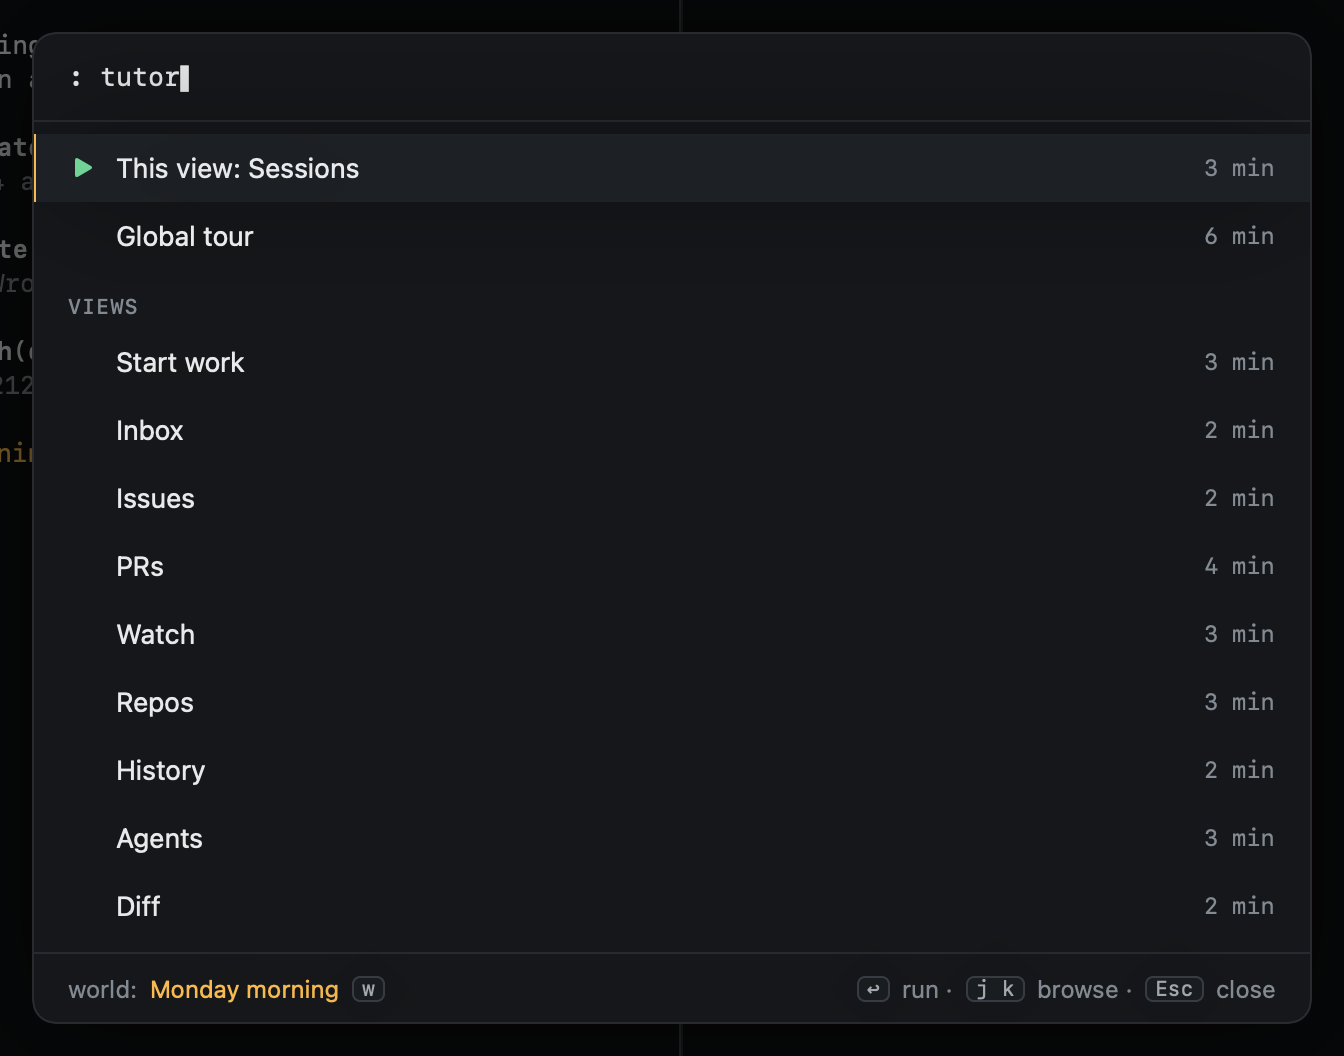
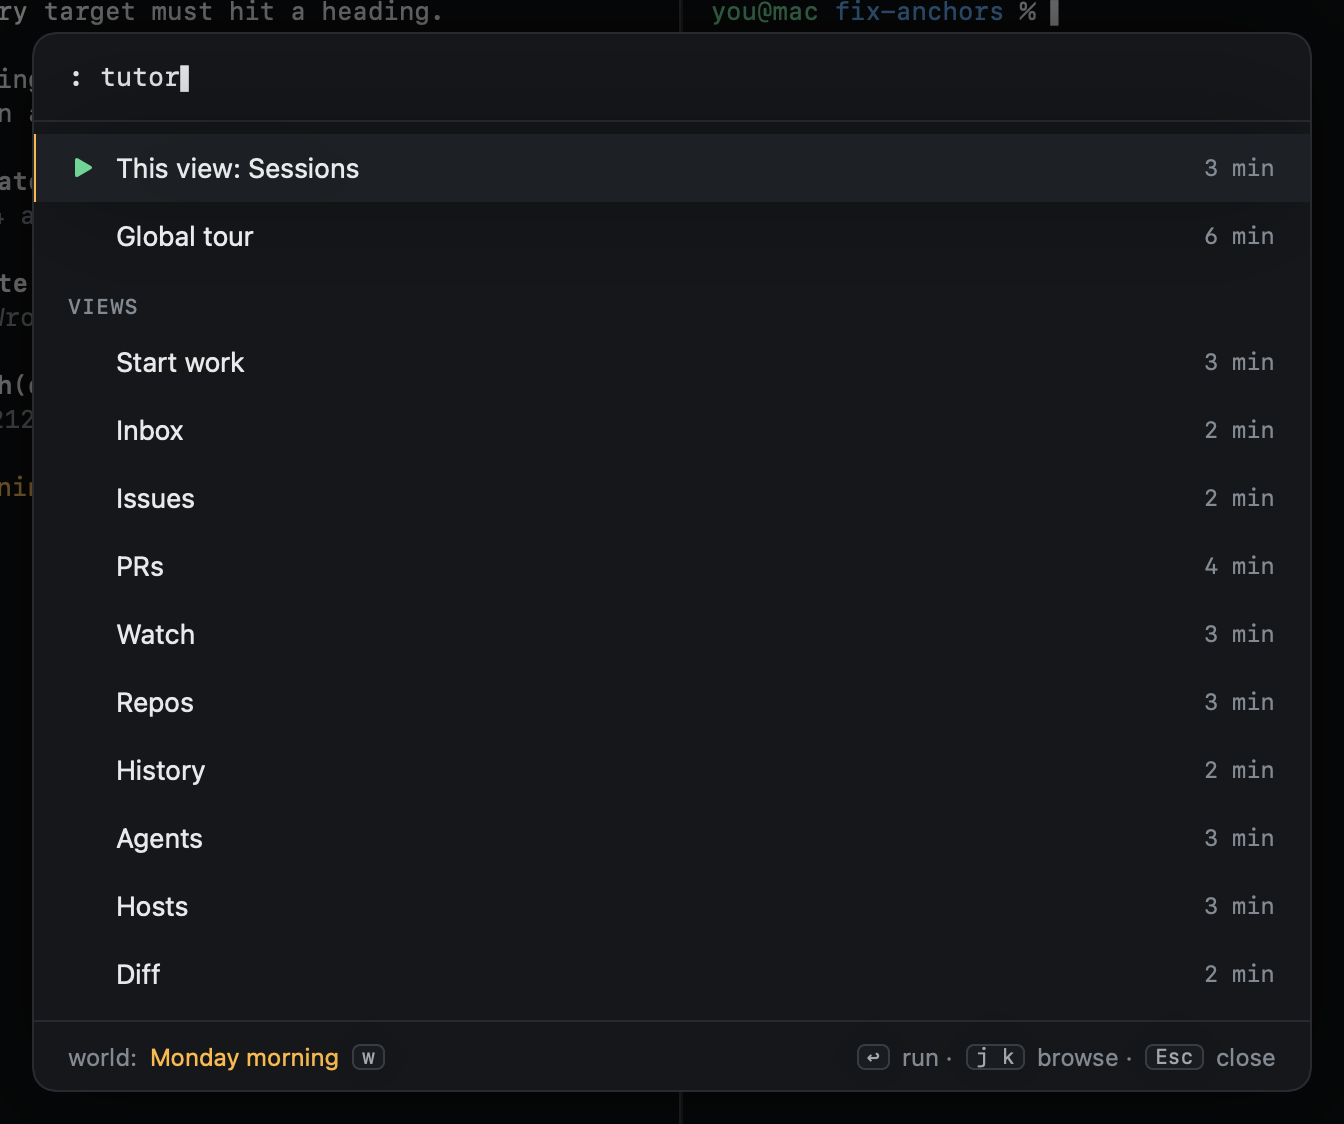
Hosts in the tutor and on the landing page (#35)
Phase 5 of remote sessions.

- **Tutor:** a Hosts lesson (Monday morning world): `gH` and ⎋, `@dev`
↩, Start work picking `docs-builder @devbox` with ⌃n, ⌘↩. A new
`TutorState.hostsOpen` and `hostSessions` back the checks, and a
tutor-check script plays it (0 problems locally). The tutor's simulated
start puts the worktree and session on the plan's host.
- **Landing:** a Hosts section after Resume, with a new `landing/hosts`
shot.
- **Docs:** the tutor page lists the lesson; `docs/hosts` points at it.
The tutor picker shot is refreshed.

🤖 Generated with [Claude Code](https://claude.com/claude-code)

diff --git a/docs/heed-landing.html b/docs/heed-landing.html
@@ -261,6 +261,7 @@ a:focus-visible,summary:focus-visible,.btn:focus-visible{outline:2px solid var(-
  <section class="feat" id="green"><div class="ft"><div class="eb mono">Get it green</div><h2>Red PRs come back green.</h2><p>heed watches the PRs your sessions open: review threads, failing checks, merge conflicts. Each becomes an item for the agent that wrote the code, sent once that agent is idle, with the failed CI log saved where it can read the actual error. <kbd>gw</kbd> opens the Watch view: every PR by what it needs, and everything heed did about it.</p><ul><li>A green checklist per PR: open, ready, no conflicts, required checks passed, threads resolved, no changes requested. heed names the rule that holds it back.</li><li>Optionally hand merge conflicts and review comments to GitHub’s Copilot coding agent and spare your agent’s tokens.</li><li>Pause a PR, or a whole selection, for an hour. After three rounds without a new approval heed stops and tells you.</li></ul></div><div class="fm"><figure class="win "><div class="wb"><i style="background:#ff5f57"></i><i style="background:#febc2e"></i><i style="background:#28c840"></i><span>heed</span></div><img src="images/shots/landing/green.png" alt="The Watch view: PRs grouped by what they need, a PR’s green checklist, and the pilot’s activity." loading="lazy"></figure></div></section><section class="feat rev" id="merged"><div class="ft"><div class="eb mono">Get it merged</div><h2>Green PRs land.</h2><p>Turn merging on per PR with <kbd>M</kbd>, or for a whole repo or org. Each repo gets a merge queue that runs every hour, and whenever one of its PRs turns green. Use GitHub’s auto-merge where its rules are enough, or let heed merge once every rule you set holds.</p><ul><li>heed’s rules: green, reviewed after the last push (by a person, or an AI reviewer you trust), quiet for five minutes, your gate checks passed, no hold label.</li><li>An optional self-review: a command you choose, such as <span class="mono">claude -p</span>, reads the diff and has to answer APPROVE.</li><li>It merges only the commit it checked, brings PRs that fell behind up to date, and comments on the PR saying why it merged.</li></ul></div><div class="fm"><figure class="win "><div class="wb"><i style="background:#ff5f57"></i><i style="background:#febc2e"></i><i style="background:#28c840"></i><span>heed</span></div><img src="images/shots/landing/merged.png" alt="A PR in heed’s merge mode: each merge rule, the one holding it back, and the repo’s merge queue." loading="lazy"></figure></div></section>
  <section class="feat rev" id="f6"><div class="ft"><div class="eb mono">Worktrees</div><h2>Worktrees that tidy up after themselves.</h2><p>Create, list and remove worktrees across repos. Cleanup starts with one honest rule: remove what has been quiet for N days.</p><ul><li>Never touches dirty or unpushed work, and never pinned sessions.</li><li>Shows what the next sweep would do before it does it.</li><li>Org icon and color on every repo, so a long list scans fast.</li></ul></div><div class="fm"><figure class="win "><div class="wb"><i style="background:#ff5f57"></i><i style="background:#febc2e"></i><i style="background:#28c840"></i><span>heed</span></div><img src="images/shots/landing/worktrees.png" alt="Worktree table with state, repo chips, PRs and cleanup ETA." loading="lazy"></figure></div></section>
  <section class="feat" id="f7"><div class="ft"><div class="eb mono">Resume</div><h2>Pick up where you left off.</h2><p>Quit heed, restart the Mac, come back tomorrow. Active sessions reopen with their agent session id, in the same worktrees, tabs and splits. Claude, for example, comes back with <kbd>--resume</kbd>.</p><ul><li>If an agent has forgotten the session, you get a fresh start with the same prompt.</li><li>Sessions that were mid-turn get a “Continue where you left off.” nudge, yours to change.</li><li>Running processes are not restored, and heed says so.</li></ul></div><div class="fm"><figure class="win "><div class="wb"><i style="background:#ff5f57"></i><i style="background:#febc2e"></i><i style="background:#28c840"></i><span>heed</span></div><img src="images/shots/landing/resume.png" alt="Resume dialog listing sessions with the exact command for each." loading="lazy"></figure></div></section>
+<section class="feat rev" id="hosts"><div class="ft"><div class="eb mono">Hosts</div><h2>Agents on other machines, in the same window.</h2><p>Your devbox, a GPU box, a build machine: heed drives them over the ssh you already have. Press <kbd>o</kbd>, pick <span class="mono">docs-builder @devbox</span>, and the worktree, the agent and its hooks all live there, while you watch from here.</p><ul><li>Plain OpenSSH: your <span class="mono">~/.ssh/config</span>, your agent, jump hosts. Nothing to run on the host but a small shell script in <span class="mono">~/.heed</span>.</li><li>With <a href="https://zmx.sh">zmx</a> on the host, the agent keeps working when the link drops, and the pane comes back as it was. heed tells you how to install it, and marks sessions without it as not persistent.</li><li>A remote session shows where it runs: a chip, a rail and a strip in the host’s colour, and the link’s latency.</li></ul></div><div class="fm"><figure class="win "><div class="wb"><i style="background:#ff5f57"></i><i style="background:#febc2e"></i><i style="background:#28c840"></i><span>heed</span></div><img src="images/shots/landing/hosts.png" alt="A session on @devbox: the host chip in the sidebar, the pane strip with the link state, and the host in the status bar." loading="lazy"></figure></div></section>
 
  <div class="also">
   <div class="al"><figure class="win "><div class="wb"><i style="background:#ff5f57"></i><i style="background:#febc2e"></i><i style="background:#28c840"></i><span>heed</span></div><img src="images/shots/landing/diff.png" alt="Diff overlay over a session." loading="lazy"></figure><h3>Read the diff, stay put</h3><p><kbd>gd</kbd> opens committed, staged or unstaged changes over your session. Per file, per commit, or all of it. Ask the agent about a hunk with one key.</p></div>

diff --git a/Sources/HeedCore/Tutor/Lessons.swift b/Sources/HeedCore/Tutor/Lessons.swift
@@ -278,6 +278,32 @@ public extension Tutor {
                 doneLine: "{session.park} again brings it back. A session that needs you stays in sight even parked."
             ) { start, now, _ in now.parked > start.parked },
         ]),
+        TutorLesson(id: "hosts", title: "Hosts", minutes: 3, world: .mondayMorning, steps: [
+            TutorStep(
+                "Your hosts",
+                say: "{host.open} lists the machines heed drives over ssh, and what each has: git, zmx, agents. ⎋ closes it.",
+                keys: ["{host.open}", "⎋"], target: "dialog",
+                doneLine: "Hosts in your ~/.ssh/config are there to add. One without zmx shows the line that installs it."
+            ) { _, now, seen in seen.contains(where: \.hostsOpen) && !now.hostsOpen },
+            TutorStep(
+                "One host at a time",
+                say: "{host.filter} narrows the view to one host: type dev, and ↩ keeps the filter.",
+                keys: ["{host.filter}", "↩"], target: "statusBar",
+                doneLine: "Only what runs on @devbox. A remote session carries a rail and chip in its host's colour."
+            ) { _, now, _ in !now.filtering && now.filter.hasPrefix("@") },
+            TutorStep(
+                "Pick a host's repo",
+                say: "{work.start}, say what you want done, then ⌃n until the chip says @devbox.",
+                keys: ["{work.start}", "⌃n"], target: "dialog",
+                doneLine: "The line over the command says where it will run, and whether zmx keeps it alive."
+            ) { _, now, _ in now.startWorkOpen && now.startWorkRepo?.hasSuffix("@devbox") == true },
+            TutorStep(
+                "Start it there",
+                say: "⌘↩: the worktree and the agent are made on @devbox, not on this Mac.",
+                keys: ["⌘↩"], target: "dialog",
+                doneLine: "Its pane is ssh into a zmx session on the host: drop the link and the agent keeps going."
+            ) { start, now, _ in now.hostSessions > start.hostSessions },
+        ]),
         TutorLesson(id: "diff", title: "Diff", minutes: 2, world: .mondayMorning, steps: [
             TutorStep(
                 "Open the overlay",

diff --git a/Sources/HeedApp/Model/AppModel.swift b/Sources/HeedApp/Model/AppModel.swift
@@ -4163,8 +4163,10 @@ final class AppModel {
     private func simulateStart(_ plan: StartWorkPlan) {
         let made = plan.repos.map { record in
             Worktree(
-                repo: record.repo, path: settings.worktreePath(repo: record.repo, name: plan.name), branch: plan.name,
-                head: "0000000", isMain: false, status: WorktreeStatus(upstream: nil)
+                repo: record.repo,
+                path: StartWork.worktreePath(for: record, name: plan.name, settings: settings, hosts: config.hosts),
+                branch: plan.name, head: "0000000", isMain: false, status: WorktreeStatus(upstream: nil),
+                location: record.location
             )
         }
         var session = Session(
@@ -4172,6 +4174,7 @@ final class AppModel {
             branch: plan.name, agent: plan.agent?.name ?? "shell", state: ObservedState(.working),
             activity: "starting", lastActivity: Date()
         )
+        session.host = plan.location.hostName
         session.record("started · \(plan.agent?.name ?? "shell")")
         var changes: [DomainChange] = plan.repos.map { record in
             .worktreesListed(repo: record.repo, worktrees.filter { $0.repo == record.repo } + made.filter {
@@ -4452,6 +4455,8 @@ final class AppModel {
         state.startWorkRepo = startWork?.selectedRepos.first
         state.confirmationOpen = confirmation != nil
         state.importOpen = importPicker != nil || pathImport != nil
+        state.hostsOpen = hostsPicker != nil
+        state.hostSessions = sessions.count { $0.host != nil }
         state.commandLine = mode == .command
         state.sessions = sessions.count
         let pins = list.ordered.filter(\.pinned)

diff --git a/Tests/HeedCoreTests/TutorTests.swift b/Tests/HeedCoreTests/TutorTests.swift
@@ -33,7 +33,7 @@ struct TutorTests {
         #expect(Tutor.tour.steps.count == 9)
         #expect(Tutor.tour.steps.first?.title == "Two modes")
         #expect(Tutor.viewLessons.map(\.id) == [
-            "sessions", "start-work", "inbox", "issues", "prs", "watch", "repos", "history", "agents", "diff",
+            "sessions", "start-work", "inbox", "issues", "prs", "watch", "repos", "history", "agents", "hosts", "diff",
         ])
         for lesson in Tutor.viewLessons {
             #expect((2 ... 4).contains(lesson.minutes), "\(lesson.id)")

diff --git a/Sources/HeedApp/Shots/Shots.swift b/Sources/HeedApp/Shots/Shots.swift
@@ -108,6 +108,7 @@ enum Shots {
         Shot(id: "landing/merged", chrome: false, keys: "gw/anchors<CR>"),
         Shot(id: "landing/worktrees", chrome: false, keys: "gr4jvj"),
         Shot(id: "landing/resume", chrome: false, prepare: { $0.showResumeForFixture() }),
+        Shot(id: "landing/hosts", chrome: false, keys: "G"),
         Shot(id: "landing/diff", chrome: false, keys: "gd"),
         Shot(id: "landing/inbox", chrome: false, keys: "gm<Space>j<Space>"),
     ]

diff --git a/Sources/HeedApp/Shots/TutorCheck.swift b/Sources/HeedApp/Shots/TutorCheck.swift
@@ -22,6 +22,12 @@ enum TutorCheck {
         "watch": ["gw", "j", "zp", "vjzp", "zm", "gM"],
         "repos": ["G", "o<Esc><Esc>", "ddn"],
         "history": ["j", "t", "R"],
+        "hosts": [
+            "gH<Esc>",
+            "@dev<CR>",
+            "o" + Shots.typed("Fix the flaky link checker in docs-builder") + "<C-n>",
+            "<D-CR>",
+        ],
         "agents": ["ga", "i<S-Esc>", "jjzz"],
         "diff": ["gd", "n", "a"],
     ]

diff --git a/Sources/HeedCore/Tutor/Tutor.swift b/Sources/HeedCore/Tutor/Tutor.swift
@@ -22,6 +22,10 @@ public struct TutorState: Equatable, Sendable {
     public var startWorkRepo: String?
     public var confirmationOpen = false
     public var importOpen = false
+    /// The hosts dialog (`gH`) is open.
+    public var hostsOpen = false
+    /// Sessions that run on a host.
+    public var hostSessions = 0
     public var commandLine = false
     public var helpOpen = false
     public var sessions = 0

diff --git a/docs/getting-started/tutor.md b/docs/getting-started/tutor.md
@@ -15,14 +15,14 @@ underneath (the Dock and the menu bar stay live). They come back exactly as they
 - **The global tour**: nine steps, about six minutes. Two modes, moving around, pins, the session that needs you,
   Start work, panes, views, the command line, and the keys sheet. The first-run screen offers it (`t`, show me around).
 - **View lessons**: one per view, two to four minutes each: Sessions, Start work, Inbox, Issues, PRs, Watch, Repos, History,
-  Agents and Diff. Each opens in its view.
+  Agents, Hosts and Diff. Each opens in its view.
 
 ## Starting it
 
 | From | |
 |---|---|
 | `:tutor` | The picker: the lesson for the view you are on first, then the tour and every other lesson |
-| `:tutor prs` | Straight into a lesson: `tour`, `sessions`, `start-work`, `inbox`, `issues`, `prs`, `watch`, `repos`, `history`, `agents`, `diff` |
+| `:tutor prs` | Straight into a lesson: `tour`, `sessions`, `start-work`, `inbox`, `issues`, `prs`, `watch`, `repos`, `history`, `agents`, `hosts`, `diff` |
 | `?` then `t` | The keys sheet ends with "t tutor for this view" |
 | `⌘⇧T` | The picker, from anywhere in the window, even a terminal pane (never typed into the shell) |
 | Help ▸ Heed Tutor | The picker, for the mouse |

diff --git a/docs/hosts/index.md b/docs/hosts/index.md
@@ -119,3 +119,6 @@ With a host's repo picked:
 
 A session runs in one place: a cross-repo session takes repos all on this Mac or all on one host. The host has to
 answer when you start; if it does not, `gH` shows why.
+
+The [tutor](../getting-started/tutor.md)'s Hosts lesson (`:tutor hosts`) walks through the hosts dialog, the `@`
+filter and starting work on a pretend `@devbox`.
